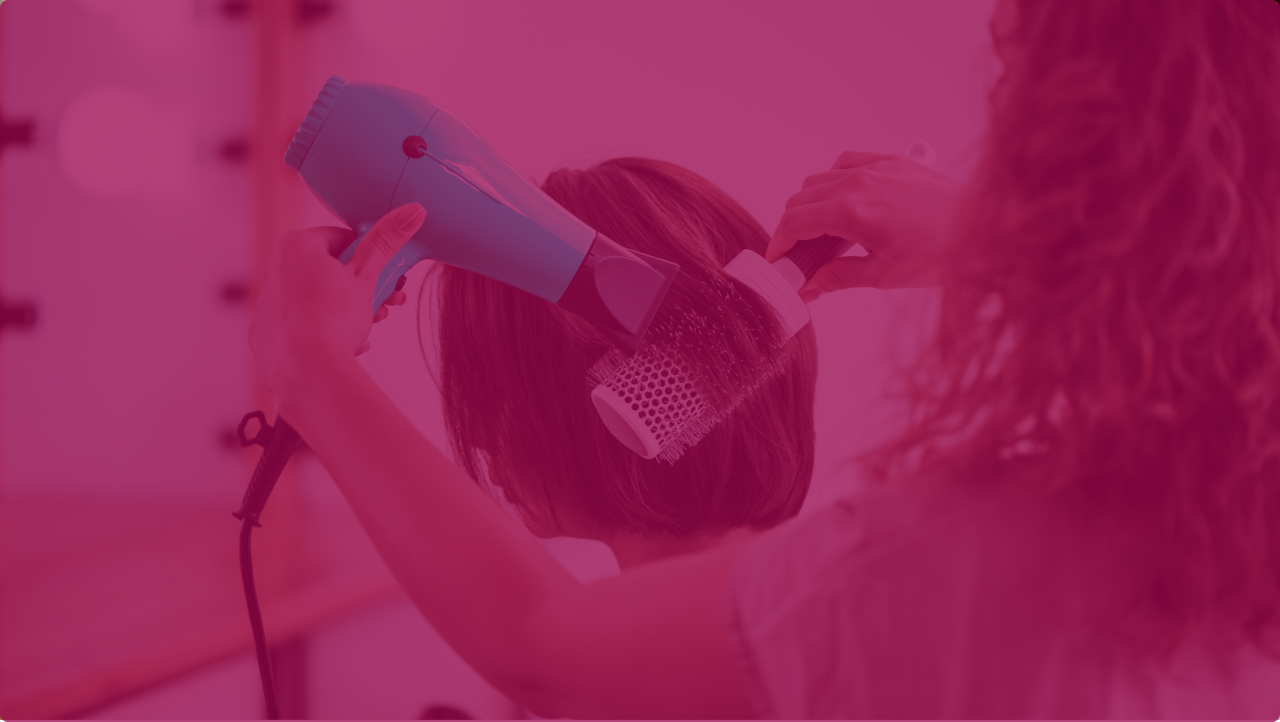
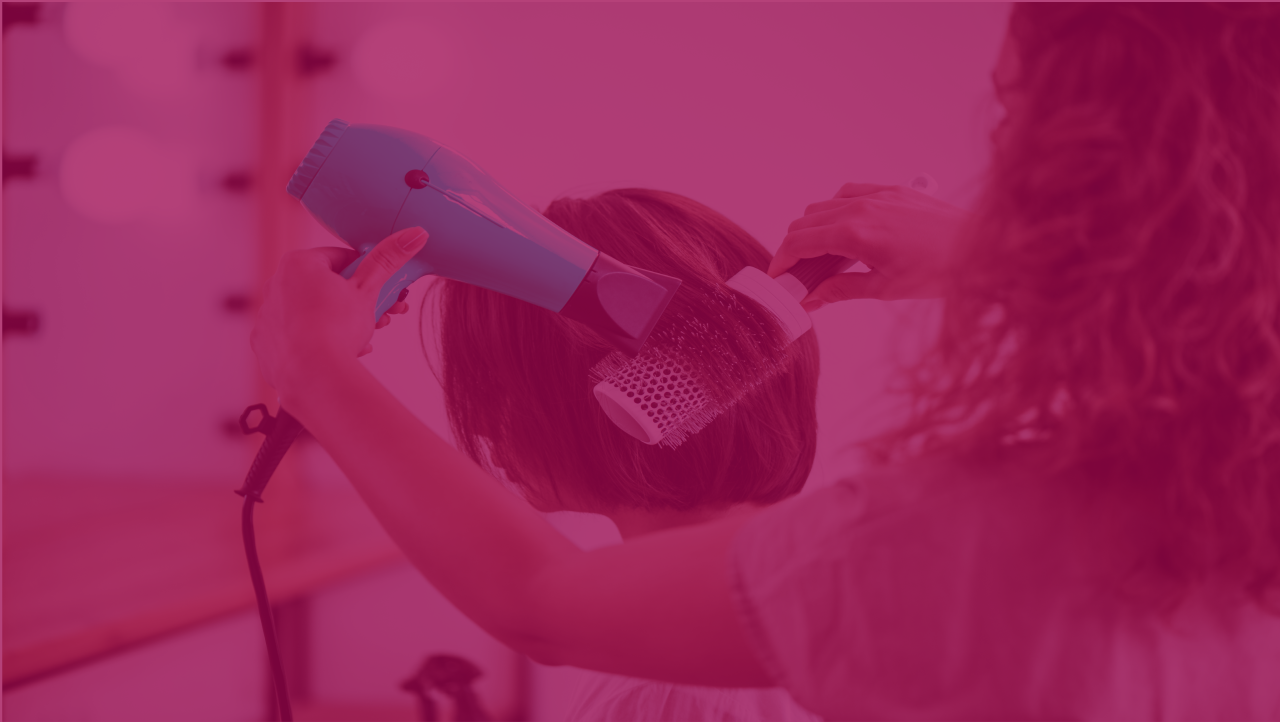
adicionado responsividade do mobile para desktop 320px a 768px

diff --git a/src/App.tsx b/src/App.tsx
@@ -41,7 +41,8 @@ import ImgDeskBanner from "./assets/bannerDesktop.png";
 import ImgDeskAboutUs from "./assets/sobreNosDesktop.png";
 
 // import ImgSobreNos from "./assets/sobre-nos.png";
-import ImgCta from "./assets/agendeAgora.png";
+import ImgMobileCta from "./assets/agendeAgora.png";
+import ImgDeskCta from "./assets/agendeAgoraDesk.png";
 
 import IconMap from "./assets/iconMap.svg";
 import IconFacebook from "./assets/iconFacebook.svg";
@@ -58,6 +59,7 @@ function App() {
           mTop="100px"
           imgMobile={ImgMobileBanner}
           imgDesk={ImgDeskBanner}
+          media768height="67vh"
         />
       </ContainerBanner>
 
@@ -81,7 +83,14 @@ function App() {
       <ContainerAboutUs>
         <BackgroundImg>
           {/* <img src={ImgSobreNos} alt="Sobre nós" /> */}
-          <Banner imgMobile={ImgMobileAboutUs} imgDesk={ImgDeskAboutUs} />
+          <Banner
+            imgMobile={ImgMobileAboutUs}
+            imgDesk={ImgDeskAboutUs}
+            media320height="30vh"
+            media375height="36vh"
+            media425height="40vh"
+            media768height="50vh"
+          />
 
           <Texts
             padding="0 23px"
@@ -104,19 +113,37 @@ function App() {
         <ContentButtonAboutUs>
           <Button
             text="Cadastre-se"
-            mTop="35px"
+            mTop="15px"
             width="145px"
             height="30px"
             media425Height="35px"
             media425Width="155px"
+            media425Mtop="0"
+            media768Width="185px"
+            media768Height="40px"
+            media768fSize="17px"
           />
         </ContentButtonAboutUs>
       </CreateAccount>
 
       <ContainerCta>
-        <img src={ImgCta} alt="Agende seu horário" />
+        {/* <img src={ImgCta} alt="Agende seu horário" /> */}
+        <Banner
+          imgMobile={ImgMobileCta}
+          imgDesk={ImgDeskCta}
+          media320height="11vh"
+          media375height="12vh"
+          media425height="14vh"
+          media768height="27vh"
+        />
+
         <ContentCta>
-          <SubTitle fSize="14px" media425fSize="16px" fWeight="400">
+          <SubTitle
+            fSize="14px"
+            media425fSize="16px"
+            media768fSize="25px"
+            fWeight="400"
+          >
             Agende qualquer procedimento!
           </SubTitle>
           <Button

diff --git a/src/WebSite.style.ts b/src/WebSite.style.ts
@@ -37,7 +37,12 @@ export const ContainerCard = styled.section`
   display: flex;
   flex-direction: column;
   padding-left: 15px;
-  padding-right: 15px;
+
+  /* padding-right: 15px; */
+
+  @media (min-width: 768px) {
+    margin-bottom: 50px;
+  }
 `;
 
 export const ContentCard = styled.div`
@@ -68,48 +73,61 @@ export const ContainerAboutUs = styled.section`
 
   padding-left: 15px;
   padding-right: 15px;
+
+  @media (min-width: 768px) {
+    padding: 0;
+  }
 `;
 
 export const CreateAccount = styled.section`
   position: relative;
   height: 185px;
+
+  @media (min-width: 768px) {
+    margin-top: 175px;
+  }
 `;
 
 export const ContentButtonAboutUs = styled.div`
   position: relative;
   bottom: calc(100px - 200px);
   margin-left: 15px;
+
+  @media (min-width: 768px) {
+    bottom: calc(100px - 125px);
+  }
 `;
 
 export const ContainerCta = styled(BackgroundImg)`
-  img {
-    margin: 30px 15px;
-  }
+  padding-left: 15px;
+  padding-right: 15px;
 
-  @media (min-width: 425px) {
-    img {
-      margin: 0 15px;
-    }
+  @media (min-width: 768px) {
+    padding-left: 0;
+    padding-right: 0;
   }
 `;
 
 export const ContentCta = styled.div`
   position: absolute;
-  top: calc(100% - 65%);
+  top: calc(100% - 87%);
 
   display: flex;
   align-items: center;
 
-  width: 276px;
+  width: 270px;
 
   @media (min-width: 375px) {
-    top: calc(100% - 63%);
+    top: calc(100% - 85%);
     width: 326px;
   }
 
   @media (min-width: 425px) {
-    top: calc(100% - 69%);
+    top: calc(100% - 80%);
     width: 364px;
+  }
+
+  @media (min-width: 768px) {
   }
 `;
 
@@ -118,6 +136,11 @@ export const SubTitle = styled(Title)`
 
   @media (min-width: 425px) {
     font-size: ${({ media425fSize }) => media425fSize};
+  }
+
+  @media (min-width: 768px) {
+    font-size: ${({ media768fSize }) => media768fSize};
+    line-height: 30px;
   }
 `;
 
@@ -129,6 +152,7 @@ export const ContainerContact = styled.article`
     display: flex;
     justify-content: space-between;
     margin: 0 20px;
+    padding: 0;
     align-items: baseline;
   }
 `;

diff --git a/src/components/Texts/style.ts b/src/components/Texts/style.ts
@@ -3,7 +3,8 @@ import { TextsProps } from "./Texts.types";
 
 export const ContainerTexts = styled.div<TextsProps>`
   position: absolute;
-  top: calc(100% - 165px);
+  /* top: calc(100% - 165px); */
+  top: calc(100% - 190px);
 
   padding: ${({ padding }) => padding || " 0 15px"};
 
@@ -12,7 +13,17 @@ export const ContainerTexts = styled.div<TextsProps>`
   color: #ffffff;
 
   @media (min-width: 375px) {
-    top: calc(100% - 170px);
+    top: calc(100% - 203px);
+  }
+
+  @media (min-width: 425px) {
+    top: calc(100% - 210px);
+    width: 350px;
+  }
+
+  @media (min-width: 768px) {
+    top: calc(100% - 274px);
+    width: auto;
   }
 `;
 
@@ -21,9 +32,13 @@ export const Title = styled.span<TextsProps>`
   font-style: normal;
   font-weight: ${({ fWeight }) => fWeight || "600"};
   font-size: ${({ fSize }) => fSize || "18px"};
-  line-height: 20px;
+  line-height: 22px;
   padding-bottom: 15px;
   color: #ffff;
+
+  @media (min-width: 768px) {
+    font-size: 25px;
+  }
 `;
 
 export const Description = styled.span<TextsProps>`
@@ -33,6 +48,13 @@ export const Description = styled.span<TextsProps>`
   font-weight: ${({ fWeight }) => fWeight || "300"};
   line-height: 20px;
   color: #ffff;
+
+  @media (min-width: 768px) {
+    font-size: 18px;
+    line-height: 25px;
+
+    padding: 0 175px 0 0;
+  }
 `;
 
 /*

diff --git a/src/components/Banner/style.ts b/src/components/Banner/style.ts
@@ -13,23 +13,24 @@ export const BannerImg = styled(BackgroundImg)<BannerProps>`
 
   @media (min-width: 320px) {
     background-image: url(${({ imgMobile }) => imgMobile});
-    height: 24vh;
+    height: ${({ media320height }) => media320height || "24vh"};
   }
 
   @media (min-width: 375px) {
     background-image: url(${({ imgMobile }) => imgMobile});
-    height: 30vh;
+    height: ${({ media375height }) => media375height || "30vh"};
   }
 
   @media (min-width: 425px) {
     background-image: url(${({ imgMobile }) => imgMobile});
-    height: 35vh;
+
+    height: ${({ media425height }) => media425height || "35vh"};
   }
 
   @media (min-width: 768px) {
-    margin-top: 100px;
     background-image: url(${({ imgDesk }) => imgDesk});
-    height: 64vh;
+    height: ${({ media768height }) => media768height};
     border-radius: 0;
+    margin-top: 0px;
   }
 `;

diff --git a/src/components/Button/style.ts b/src/components/Button/style.ts
@@ -21,11 +21,23 @@ export const StyledButton = styled.button<ButtonProps>`
   outline: none;
   border: 0;
 
+  @media (min-width: 375px) {
+    margin-top: 0;
+  }
+
   @media (min-width: 425px) {
     margin-top: ${({ media425Mtop }) => media425Mtop || "15px"};
     font-size: ${({ media425fSize }) => media425fSize};
 
     width: ${({ media425Width }) => media425Width};
     height: ${({ media425Height }) => media425Height};
+  }
+
+  @media (min-width: 768px) {
+    /* margin-top: ${({ media425Mtop }) => media425Mtop || "15px"}; */
+    font-size: ${({ media768fSize }) => media768fSize};
+
+    width: ${({ media768Width }) => media768Width};
+    height: ${({ media768Height }) => media768Height};
   }
 `;

diff --git a/src/components/Banner/Banner.tsx b/src/components/Banner/Banner.tsx
@@ -1,6 +1,24 @@
 import { BannerImg } from "./style";
 import { BannerProps } from "./Banner.types";
 
-export const Banner: React.FC<BannerProps> = ({ imgMobile, imgDesk, mTop }) => {
-  return <BannerImg mTop={mTop} imgMobile={imgMobile} imgDesk={imgDesk} />;
+export const Banner: React.FC<BannerProps> = ({
+  imgMobile,
+  imgDesk,
+  mTop,
+  media320height,
+  media375height,
+  media425height,
+  media768height,
+}) => {
+  return (
+    <BannerImg
+      mTop={mTop}
+      imgMobile={imgMobile}
+      imgDesk={imgDesk}
+      media320height={media320height}
+      media375height={media375height}
+      media425height={media425height}
+      media768height={media768height}
+    />
+  );
 };

diff --git a/src/components/Button/Button.types.ts b/src/components/Button/Button.types.ts
@@ -9,6 +9,9 @@ export interface ButtonProps {
   media425fSize?: string;
   media425Width?: string;
   media425Height?: string;
+  media768fSize?: string;
+  media768Width?: string;
+  media768Height?: string;
   text?: string;
 
   onClick?: MouseEventHandler<HTMLButtonElement>;

diff --git a/src/components/Banner/Banner.types.ts b/src/components/Banner/Banner.types.ts
@@ -2,4 +2,8 @@ export interface BannerProps {
   imgMobile?: string;
   imgDesk?: string;
   mTop?: string;
+  media320height?: string;
+  media375height?: string;
+  media425height?: string;
+  media768height?: string;
 }

diff --git a/src/components/Texts/Texts.types.ts b/src/components/Texts/Texts.types.ts
@@ -1,6 +1,7 @@
 export interface TextsProps {
   fSize?: string;
   media425fSize?: string;
+  media768fSize?: string;
   fWeight?: string;
   padding?: string;
   title?: string;
